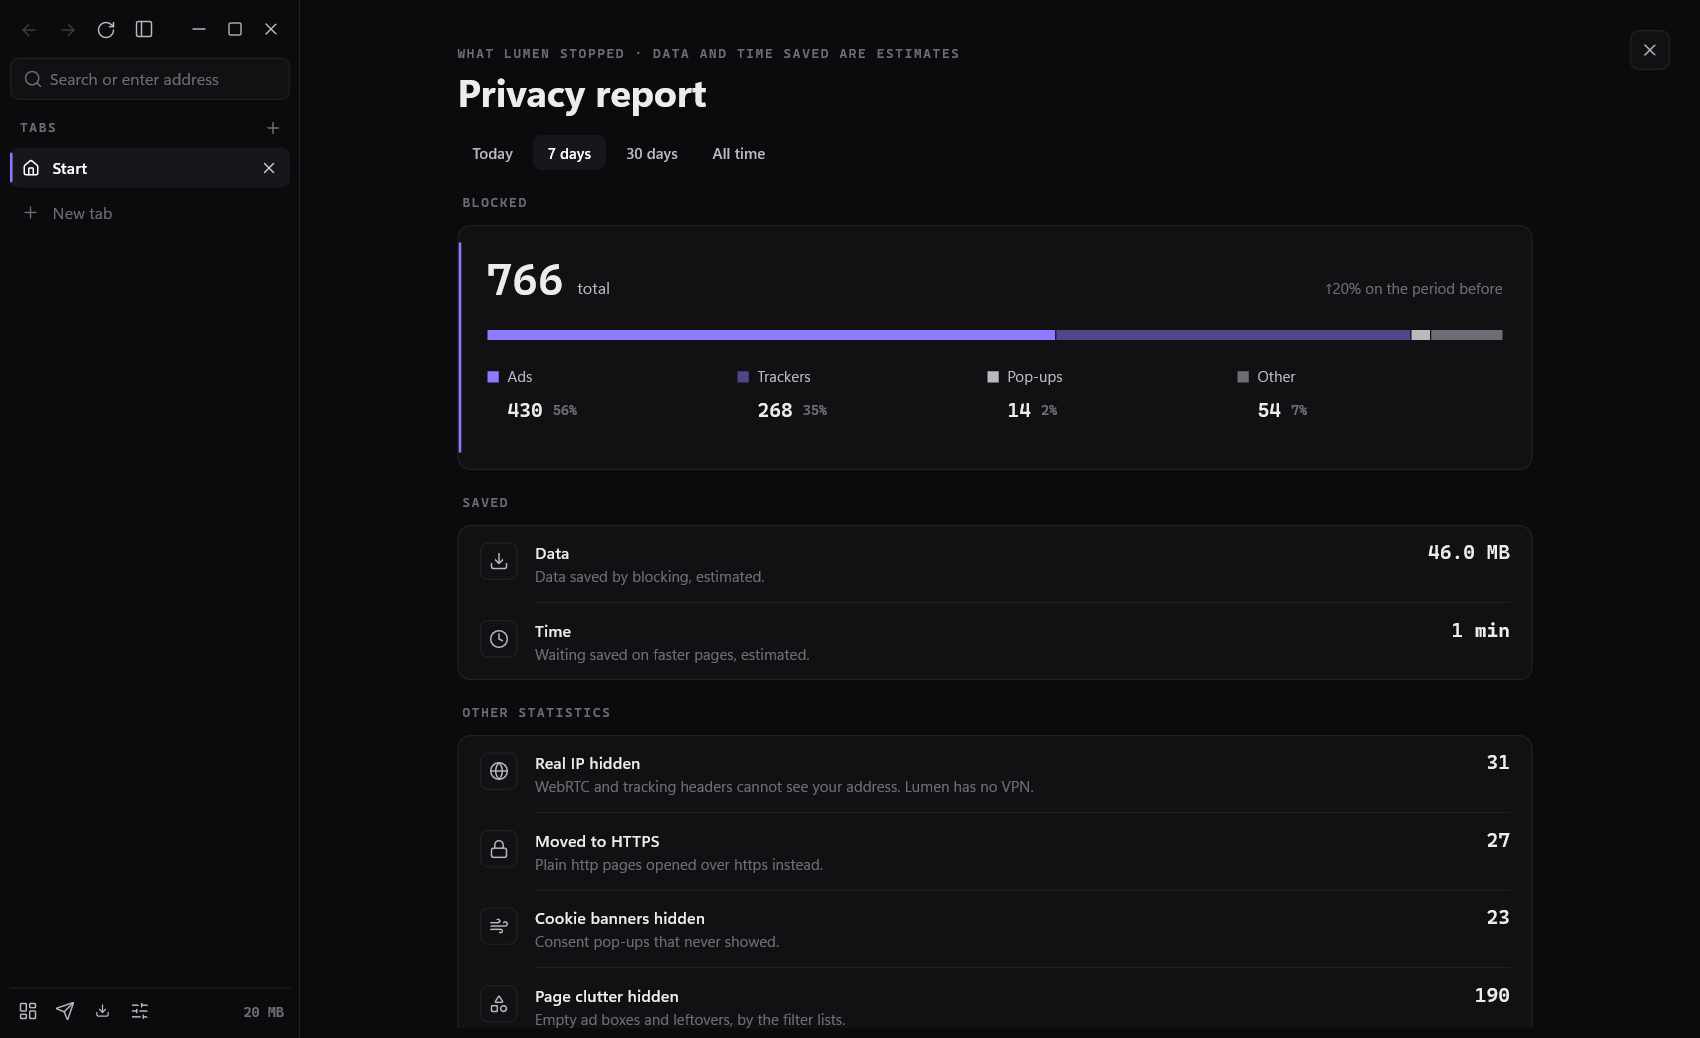
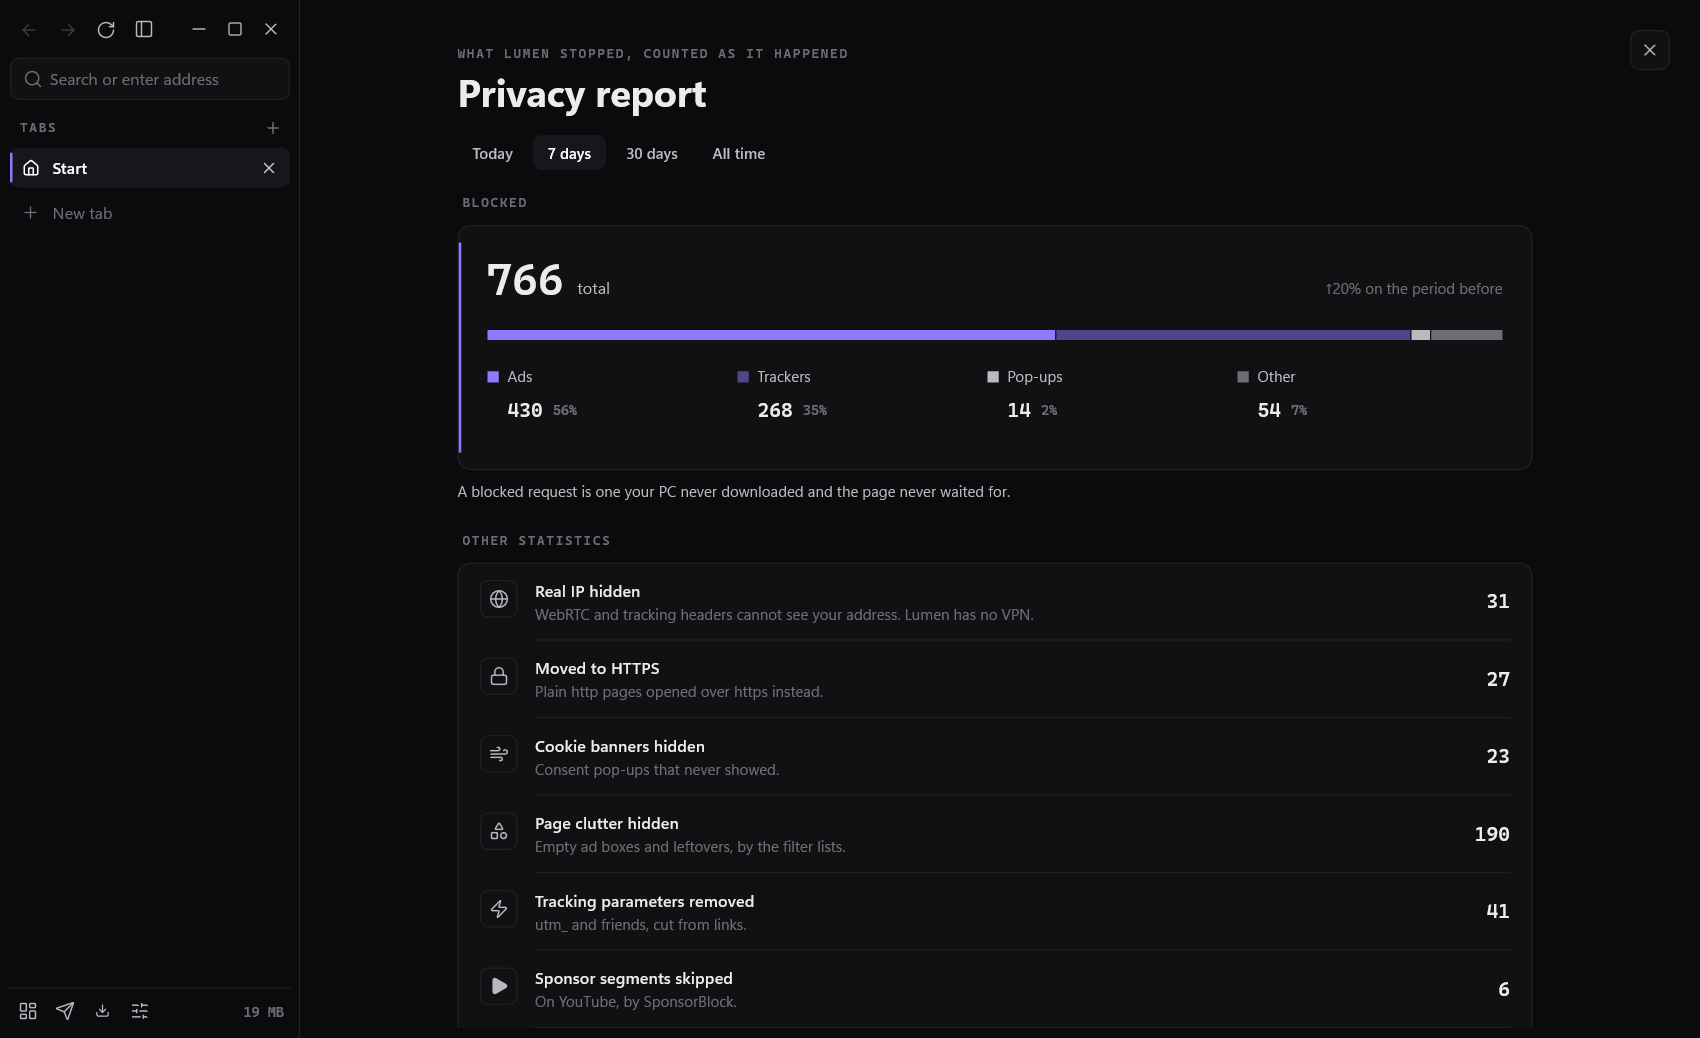
report: counts only, no estimates
Data saved and time saved were estimates: an average size and an average
wait per blocked request. The person wants numbers that are counted, not
guessed, so they are gone from the report (its Saved panel, the subtitle,
the agent line) and from the dashboard's and the start page's Blocked
today tile. One plain line says what a blocked request means instead.

diff --git a/src/chrome/report.rs b/src/chrome/report.rs
@@ -1,7 +1,8 @@
 //! The privacy report: what Lumen stopped, by day and by site, like another browser's.
 //!
 //! The numbers come from `privacy_stats::Snapshot`, filled into `UiState.report` only while
-//! this page is open. Bytes and time saved are estimates, and the page says so.
+//! this page is open. Every number on it is a count of something that happened: no
+//! estimates, so no "data saved" or "time saved".
 //!
 //! One layout, three skins. The hero, the panels and the chart each ask the look how to be
 //! drawn: Signal is paper and ink with red only for today, Glass is frosted with a glow and a
@@ -13,7 +14,7 @@ use super::{
     Hit, Inner, UiState,
     gfx::{Align, R},
     group_digits,
-    pages::{close_button, column, empty_state, fmt_bytes, group_label, site_icon, title_block},
+    pages::{close_button, column, empty_state, group_label, site_icon, title_block},
     send,
     style::ROW_H,
     theme::{Color, Style, Theme},
@@ -34,16 +35,6 @@ pub enum Click {
 }
 
 const RANGES: [(&str, &str); 4] = [("today", "Today"), ("7", "7 days"), ("30", "30 days"), ("all", "All time")];
-
-/// Milliseconds as a person reads them: "40 ms", "12 s", "4 min", "1.2 h".
-pub fn fmt_time(ms: u64) -> String {
-    match ms {
-        0..=999 => format!("{ms} ms"),
-        1_000..=59_999 => format!("{} s", ms / 1_000),
-        60_000..=3_599_999 => format!("{} min", ms / 60_000),
-        _ => format!("{:.1} h", ms as f64 / 3_600_000.0),
-    }
-}
 
 /// A small trend for one number against the period before it. None for "all",
 /// or when there is nothing to compare.
@@ -234,17 +225,6 @@ fn rows_panel(i: &mut Inner, col: R, y: f32, title: &str, rows: &[(&str, &str, S
     r.bottom() + i.look.s4
 }
 
-/// What was saved: the data the blocked requests would have cost, and the waiting.
-fn saved_rows(c: &Counts) -> Vec<(&'static str, &'static str, String, &'static str)> {
-    if c.bytes == 0 && c.ms == 0 {
-        return Vec::new();
-    }
-    vec![
-        ("download", "Data", fmt_bytes(c.bytes as i64), "Data saved by blocking, estimated."),
-        ("clock", "Time", fmt_time(c.ms), "Waiting saved on faster pages, estimated."),
-    ]
-}
-
 /// Everything else Lumen did quietly, the ones that happened.
 fn other_rows(c: &Counts) -> Vec<(&'static str, &'static str, String, &'static str)> {
     [
@@ -269,7 +249,7 @@ pub fn draw(i: &mut Inner, st: R, s: &UiState) {
     let col = column(st, 860.0);
     i.gfx.clip(st);
     let mut y = st.y + i.look.s5 + 2.0 - i.page.scroll;
-    y = title_block(i, col, y, "Privacy report", "What Lumen stopped. Data and time saved are estimates.");
+    y = title_block(i, col, y, "Privacy report", "What Lumen stopped, counted as it happened.");
 
     // The range, as a row of small pills.
     let mut x = col.x;
@@ -306,7 +286,7 @@ pub fn draw(i: &mut Inner, st: R, s: &UiState) {
             R::new(col.x, y + i.look.s5, col.w, 160.0),
             "shield",
             "Nothing blocked yet",
-            "Browse a little. Every ad, popup and tracker Lumen stops is counted here, with the data and time it saved you.",
+            "Browse a little. Every ad, pop-up and tracker Lumen stops is counted here.",
         );
         i.gfx.unclip();
         i.page.max = (y + i.page.scroll - st.bottom() + 30.0).max(0.0);
@@ -322,7 +302,12 @@ pub fn draw(i: &mut Inner, st: R, s: &UiState) {
         y = draw_site_head(i, col, y, site);
     }
     y = blocked_panel(i, col, y, &c, &prev, range, snap.site.is_some());
-    y = rows_panel(i, col, y, "Saved", &saved_rows(&c));
+    // Where an estimate of data and time saved used to be: what blocking means, no number.
+    if stopped(&c) > 0 {
+        let line = "A blocked request is one your PC never downloaded and the page never waited for.";
+        i.gfx.text(line, R::new(col.x, y - i.look.s2, col.w, 18.0), i.look.small, th.dim);
+        y += 18.0 + i.look.s3;
+    }
     y = rows_panel(i, col, y, "Other statistics", &other_rows(&c));
 
     if let Some(site) = &snap.site {
@@ -334,7 +319,7 @@ pub fn draw(i: &mut Inner, st: R, s: &UiState) {
     }
 
     if snap.agent.blocked() > 0 {
-        let line = format!("AI agent tabs, counted apart: {} blocked, {} saved.", snap.agent.blocked(), fmt_bytes(snap.agent.bytes as i64));
+        let line = format!("AI agent tabs, counted apart: {} blocked.", group_digits(snap.agent.blocked()));
         i.gfx.text(&line, R::new(col.x, y, col.w, 20.0), i.look.small, th.faint);
         y += 28.0;
     }
@@ -513,14 +498,6 @@ pub fn click(i: &mut Inner, c: Click) {
 #[cfg(test)]
 mod tests {
     use super::*;
-
-    #[test]
-    fn time_reads_like_a_person_says_it() {
-        assert_eq!(fmt_time(40), "40 ms");
-        assert_eq!(fmt_time(12_400), "12 s");
-        assert_eq!(fmt_time(240_000), "4 min");
-        assert_eq!(fmt_time(4_320_000), "1.2 h");
-    }
 
     #[test]
     fn trend_reads_a_change_against_the_period_before() {

diff --git a/src/chrome/mod.rs b/src/chrome/mod.rs
@@ -5148,7 +5148,7 @@ impl Inner {
                 let open = s.tabs.iter().filter(|t| !t.agent).count();
                 let asleep = s.tabs.iter().filter(|t| !t.agent && matches!(t.status, "asleep" | "off")).count();
                 let cards = [
-                    ("Blocked today", group_digits(blocked.blocked()), String::new(), format!("ads and trackers · {} saved", pages::fmt_bytes(blocked.bytes as i64))),
+                    ("Blocked today", group_digits(blocked.blocked()), String::new(), "ads, trackers and the rest".to_string()),
                     (
                         "Lumen",
                         mem.map(|m| format!("{}", m.round())).unwrap_or_else(|| "—".into()),

diff --git a/src/chrome/dashboard.rs b/src/chrome/dashboard.rs
@@ -10,7 +10,6 @@ use super::{
     Hit, Inner, UiState,
     gfx::{Align, R},
     pages::{close_button, column, fmt_bytes, title_block},
-    report::fmt_time,
     send,
 };
 
@@ -104,7 +103,7 @@ pub fn draw(i: &mut Inner, st: R, s: &UiState) {
         Tile {
             caption: "BLOCKED TODAY",
             value: privacy.blocked().to_string(),
-            note: format!("{} saved · {}", fmt_bytes(privacy.bytes as i64), fmt_time(privacy.ms)),
+            note: "ads, trackers and the rest".into(),
             open: Some("report"),
         },
     ];
